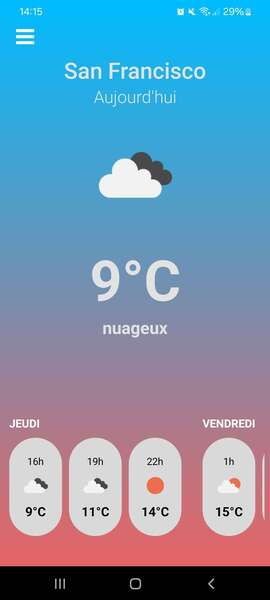
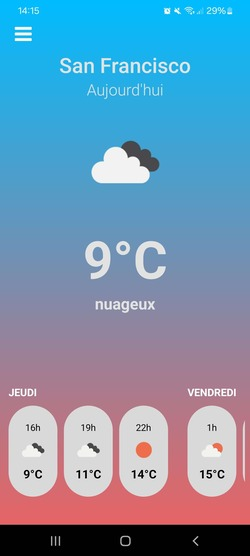
essaie 4

diff --git a/readme.md b/readme.md
@@ -1,7 +1,7 @@
 # Application météo React Native
 
 ![Header image1](./img_Readme/Screenshot_20240222_141815_meteo.jpg)
-![Header image2](./img_Readme/Screenshot_20240222_141505_meteo.png)
+![Header image2](./img_Readme/Screenshot_20240222_141505_meteo.jpg)
 ![Header image3](./img_Readme/Screenshot_20240222_141936_meteo.jpg)
 ![Header image4](./img_Readme/Screenshot_20240222_142058_meteo.jpg)
 
